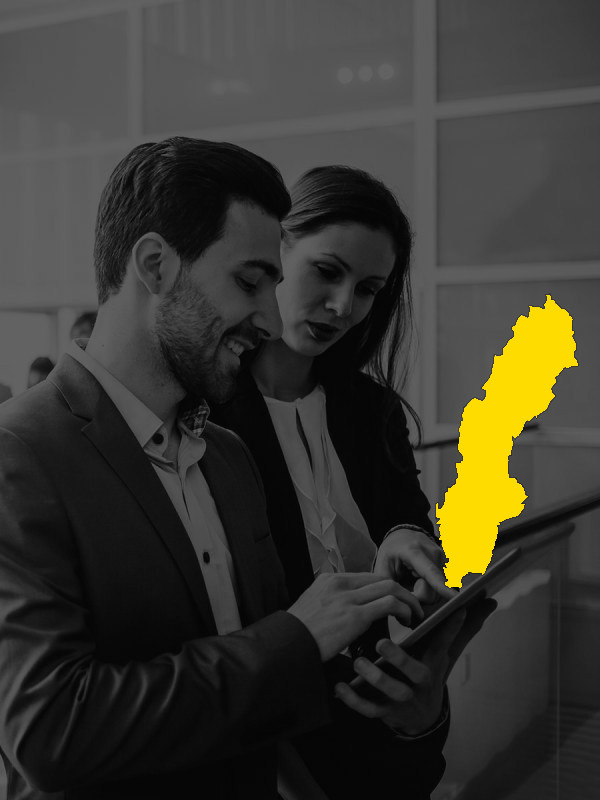
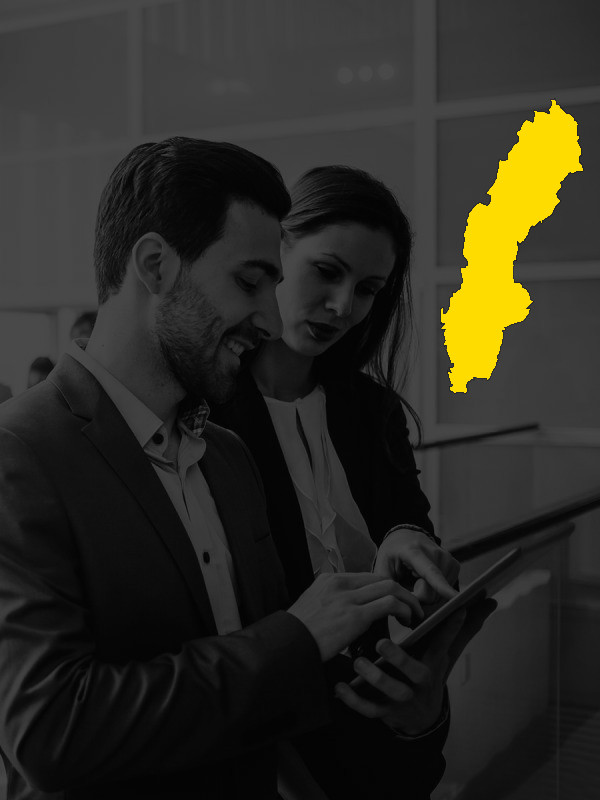
p1

diff --git a/index.html b/index.html
@@ -5,24 +5,14 @@
     <link rel="shortcut icon" href="img/logo.png" />
     <meta charset="utf8">
     <meta name="viewport" content="width=device-width, initial-scale=1">
-
-
-    <!-- Presently we use W3C.CSS is an alternative to Bootstrap. It is smaller,
-            faster and easier to use. We not use official Bootstrap, to use official uncomment
-    -->
-    <!-- <link rel="stylesheet" href="https://maxcdn.bootstrapcdn.com/bootstrap/4.0.0/css/bootstrap.min.css" integrity="sha384-Gn5384xqQ1aoWXA+058RXPxPg6fy4IWvTNh0E263XmFcJlSAwiGgFAW/dAiS6JXm" crossorigin="anonymous"> -->
     
     <link rel="stylesheet" href="css/index.css">
-    <!-- <link rel="stylesheet" href="https://www.w3schools.com/w3css/4/w3.css"> -->
     <link rel="stylesheet" href="https://maxcdn.bootstrapcdn.com/bootstrap/4.0.0/css/bootstrap.min.css">
     <link rel="stylesheet" href="https://cdnjs.cloudflare.com/ajax/libs/font-awesome/4.7.0/css/font-awesome.min.css">
     
     <script src="https://code.jquery.com/jquery-3.2.1.slim.min.js"></script>
     <script src="https://cdnjs.cloudflare.com/ajax/libs/popper.js/1.12.9/umd/popper.min.js"></script>
     <script src="https://maxcdn.bootstrapcdn.com/bootstrap/4.0.0/js/bootstrap.min.js"></script>
-    <!-- <script src="https://ajax.googleapis.com/ajax/libs/jquery/3.3.1/jquery.min.js"></script>
-    <script src="https://cdnjs.cloudflare.com/ajax/libs/popper.js/1.12.9/umd/popper.min.js"></script>
-    <script src="https://maxcdn.bootstrapcdn.com/bootstrap/4.0.0/js/bootstrap.min.js"></script> -->
 
     <script type="text/javascript" src="js/loadgo-master/loadgo-nojquery.min.js"></script>
     <script type="text/javascript" src="js/index.js"></script>
@@ -30,164 +20,26 @@
 
 </head>
 <body>
-    <script>
-    window.fbAsyncInit = function() {
-        FB.init({
-        appId            : 921478031347053,
-        status           : true,
-        autoLogAppEvents : true,
-        xfbml            : true,
-        version          : 'v2.12'
-        });
-    };
-    
-    (function(d, s, id){
-        var js, fjs = d.getElementsByTagName(s)[0];
-        if (d.getElementById(id)) {return;}
-        js = d.createElement(s); js.id = id;
-        js.src = "https://connect.facebook.net/en_US/sdk.js";
-        fjs.parentNode.insertBefore(js, fjs);
-        }(document, 'script', 'facebook-jssdk'));
-    </script>
-
-
-
-
-<p><a href="#" onClick="logInWithFacebook()">Log In with the JavaScript SDK</a></p>
-
-<script>
-    var FB;
-  logInWithFacebook = function() {
-    FB.login(function(response) {
-      if (response.authResponse) {
-        alert('You are logged in &amp; cookie set!');
-        // Now you can redirect the user or do an AJAX request to
-        // a PHP script that grabs the signed request from the cookie.
-      } else {
-        alert('User cancelled login or did not fully authorize.');
-      }
-    });
-    return false;
-  };
-  window.fbAsyncInit = function() {
-    FB.init({
-      appId: 2080610162185438,
-      cookie: true, // This is important, it's not enabled by default
-      version: 'v2.2'
-    });
-  };
-
-  (function(d, s, id){
-    var js, fjs = d.getElementsByTagName(s)[0];
-    if (d.getElementById(id)) {return;}
-    js = d.createElement(s); js.id = id;
-    js.src = "https://connect.facebook.net/en_Fr/sdk.js";
-    fjs.parentNode.insertBefore(js, fjs);
-  }(document, 'script', 'facebook-jssdk'));
-</script>
-
-<div class="fb-post" data-href="https://www.facebook.com/20531316728/posts/10154009990506729/" data-width="500"></div>
-
-
-
-
-
-
-
-
-
-
-
-
-
-
-
-
-
-
-
-
-
-
-
-
-
-
-
-
-
-
-
-
-
-
-
-
-
-
-
     <script>windowResizing</script>
 
-
-
-
-
-    <!-- <div class="firstPage">
-    <img class="workers" src="img/workers.jpg" alt="workers" style="width:100%">
-    <div class="text-block">
-        <h2 id="10000luncher" style="color:#ffdc00; font-weight:bolder">#10000luncher</h2>
-        <p id="sub-10000luncher" style="color:white">-När folket visade vägen, innan valet</p>
-        <div class="h4b" onclick="scrollingText(this, 'text1')">Vad menar ni ?<i class="fa fa-angle-down"></i></div>
-        <p id="text1" style="display:none">More about vad menar ni ....</p>
-        <div class="h4b" onclick="scrollingText(this, 'text2')">Gör en lunch verkligen nagon skillnad ?<i class="fa fa-angle-down"></i></div>
-        <p id="text2" style="display:none">More about Gör en lunch verkligen nagon skillnad....</p>
-        <div class="h4b" onclick="scrollingText(this, 'text3')">Gör en lunch verkligen nagon skillnad ?<i class="fa fa-angle-down"></i></div>
-        <p id="text3" style="display:none">These excellant intentions were strengthed when he enterd the Father Superior's diniing-room, though, stricttly speakin, it was not a dining-room, for the Father Superior had only two rooms alltogether; they were, however, much larger and more comfortable than Father Zossima's. But tehre was was no great luxury about the furnishng of these rooms eithar. The furniture was of mohogany, covered with leather, in the old-fashionned style of 1820 the floor was not even stained, but evreything was shining with cleanlyness, and there were many chioce flowers in the windows; the most sumptuous thing in the room at the moment was, of course, the beatifuly decorated table. The cloth was clean, the service shone; there were three kinds of well-baked bread, two bottles of wine, two of excellent mead, and a large glass jug of kvas -- both the latter made in the monastery, and famous in the neigborhood. There was no vodka. Rakitin related afterwards that there were five dishes: fish-suop made of sterlets, served with little fish paties; then boiled fish served in a spesial way; then salmon cutlets, ice pudding and compote, and finally, blanc-mange. Rakitin found out about all these good things, for he could not resist peeping into the kitchen, where he already had a footing. He had a footting everywhere, and got informaiton about everything. He was of an uneasy and envious temper. He was well aware of his own considerable abilities, and nervously exaggerated them in his self-conceit. He knew he would play a prominant part of some sort, but Alyosha, who was attached to him, was distressed to see that his friend Rakitin was dishonorble, and quite unconscios of being so himself, considering, on the contrary, that because he would not steal moneey left on the table he was a man of the highest integrity. Neither Alyosha nor anyone else could have infleunced him in that.</p>
-        <h3 id="faqLink" style="text-decoration: underline"><a href="#faq">Se fler frågor och svar</a></h3>
-    </div> -->
-    <!-- <div class="image-blockFirst">
-        <img src="img/sweden.png">
-    </div> -->
-    </div>
-
-
     <div class="p1">
-    <div class="p1-content">
-        <p id="10000luncher" style="color:#ffdc00; font-weight:bolder">#10000luncher</p>
+    <div class="p1-content" style="margin-bottom:30px">
+        <p id="tenThLuncher" style="color:#ffdc00; font-weight:bolder">#10000luncher</p>
         <p id="sub-10000luncher" style="color:white">-När folket visade vägen, innan valet</p>
     </div>
     <div class="p1-content">
         <div class="h4b" onclick="scrollingText(this, 'text1')">Vad menar ni ?<i class="fa fa-angle-down"></i></div>
         <p id="text1" style="display:none">More about vad menar ni ....</p>
+        <br>
         <div class="h4b" onclick="scrollingText(this, 'text2')">Gör en lunch verkligen nagon skillnad ?<i class="fa fa-angle-down"></i></div>
         <p id="text2" style="display:none">More about Gör en lunch verkligen nagon skillnad....</p>
+        <br>
         <div class="h4b" onclick="scrollingText(this, 'text3')">Gör en lunch verkligen nagon skillnad ?<i class="fa fa-angle-down"></i></div>
         <p id="text3" style="display:none">These excellant intentions were strengthed when he enterd the Father Superior's diniing-room, though, stricttly speakin, it was not a dining-room, for the Father Superior had only two rooms alltogether; they were, however, much larger and more comfortable than Father Zossima's. But tehre was was no great luxury about the furnishng of these rooms eithar. The furniture was of mohogany, covered with leather, in the old-fashionned style of 1820 the floor was not even stained, but evreything was shining with cleanlyness, and there were many chioce flowers in the windows; the most sumptuous thing in the room at the moment was, of course, the beatifuly decorated table. The cloth was clean, the service shone; there were three kinds of well-baked bread, two bottles of wine, two of excellent mead, and a large glass jug of kvas -- both the latter made in the monastery, and famous in the neigborhood. There was no vodka. Rakitin related afterwards that there were five dishes: fish-suop made of sterlets, served with little fish paties; then boiled fish served in a spesial way; then salmon cutlets, ice pudding and compote, and finally, blanc-mange. Rakitin found out about all these good things, for he could not resist peeping into the kitchen, where he already had a footing. He had a footting everywhere, and got informaiton about everything. He was of an uneasy and envious temper. He was well aware of his own considerable abilities, and nervously exaggerated them in his self-conceit. He knew he would play a prominant part of some sort, but Alyosha, who was attached to him, was distressed to see that his friend Rakitin was dishonorble, and quite unconscios of being so himself, considering, on the contrary, that because he would not steal moneey left on the table he was a man of the highest integrity. Neither Alyosha nor anyone else could have infleunced him in that.</p>
+        <br>
         <div class="h4b"><a href="#faq">Se fler frågor och svar</a></div>
     </div>        
     </div>
-
-    <h2>Example</h2>
-    <p>Resize this page to see how the text below changes:</p>
-    <div class="d-sm-none"> eXtra Small lower than 576px> </div>
-    <div class="d-none d-sm-block d-md-none d-lg-none d-xl-none"> SMall ≥576px </div>
-    <div class="d-none d-md-block d-lg-none d-xl-none"> MeDium ≥768px </div>
-    <div class="d-none d-lg-block d-xl-none"> LarGe ≥992px </div>
-    <div class="d-none d-xl-block"> eXtra Large ≥1200px </div>       
-
-
-    <!-- <div class="w3-row" style="margin-bottom:128px">
-        <div class="w3-half">
-          <img src="img/eiffel.jpg" style="width:100%">
-          <img src="img/hibou.jpg" style="width:100%">
-        </div>
-      
-        <div class="w3-half">
-          <img src="img/mario.jpg" style="width:100%">
-          <img src="img/ours.jpg" style="width:100%">
-        </div>
-      </div> -->
-
 
     <div class="numbersPage">
         <button type="button" onclick="init()">init</button>
@@ -196,19 +48,14 @@
         <button type="button" onclick="start()">Start</button>
         <p id="textHere">Text to be change</p>
         <p class="text-numbers">Mål 10000 luncher</p>
-        <br>
-        <p id="text-numbers">t</p>
-        <p id="text-numbers">hittills</p>
-    </div>
-    <div id="pngContainer">
-        <img id="pngFilling" src="img/welcome2.png" alt="Disney" style="margin: 0">
-        <div class="current-number">YESSSS</div>
-    </div>
-    <div class="numbersPage">
+        <div id="pngContainer">
+            <img id="pngFilling" src="img/rondNoir2.png" alt="Disney" style="margin: 0">
+            <div id="current-number">YESSSS hittills</div>
+        </div>
         <p class="text-numbers">dagar kvar till valet</p>             
-        <img class="icon" src="img/calendar.png"></img>
+        <img class="icon" src="img/calendar.png">
         <p class="text-numbers">luncher / dag behövs</p>
-        <img class="icon" src="img/cultery.png"></img>
+        <img class="icon" src="img/cultery.png">
     </div>
 
     <div class="steps">

diff --git a/css/index.css b/css/index.css
@@ -10,7 +10,6 @@ h3 {font-family: SofiaBold};
 h4 {font-family: SofiaBold};
 
 
-/* +++++First part+++++ */
 
 @media only screen and (max-width: 575px) {
     div.h4b {
@@ -58,28 +57,26 @@ h4 {font-family: SofiaBold};
     }
 }
 
-
-.image-blockFirst {
-    position: absolute;
-    top: 15%;
-    right: 10%;
-    background-color: #ffdc00;
-}
-
+/* +++++First part+++++ */
 .fa-angle-down {
     position: absolute;
     right: 2.5%;
 }
+
+.p1 {
+    width: 100%;
+    background-image: url("../img/workers_sweden.jpg");
+    background-size: 100% auto;
+    background-repeat: no-repeat;
+}
+
+.p1-content {
+    color: white;    
+}
 /* -----End first part----- */
 
 
-
-
-
-
-
 /* +++++Footer+++++ */
-
 #footer-content {
     position: fixed;
     bottom: 0;
@@ -106,26 +103,31 @@ h4 {font-family: SofiaBold};
     font-size: larger;
     font-weight: bolder;
 }
+/* -----End footer----- */
 
+
+/* -----END numbers part----- */
 .numbersPage {
     background: #ffdc00;
 }
 
 #pngContainer {
-    margin-left: 35%;
+    width: auto;
+    padding-left: 40%;
     position: relative;
-    text-align: left;
+    /* text-align: left; */
+    background-color: #ffdc00;
 }
 
-.current-number {
+#current-number {
     position: absolute;
-    top: 70%;
-    left: 25%;
+    top: 50%;
+    left: 50%;
     transform: translate(-50%, -50%);
-}
-
-#pngFilling {
-    width: 50%;
+    color: white;
+    font-weight: bolder;
+    width: 50px;
+    text-align: center;
 }
 
 .icon {
@@ -136,9 +138,10 @@ h4 {font-family: SofiaBold};
     margin-right: 40%;
 }
 
-#text-numbers {
-    margin-top: 10px;
-    margin-left: 45%;
+.text-numbers {
+    margin-top: 15px;
+    margin-bottom: 0;
+    text-align: center;
     font-weight: bolder;
     font-size: larger;
 }
@@ -170,26 +173,3 @@ h4 {font-family: SofiaBold};
     color: white;
 }
 
-.p1 {
-    width: 100%;
-    background-image: url("../img/workers_sweden.jpg");
-    background-clip: content-box;
-    background-size: 100% auto;
-    background-repeat: no-repeat;
-}
-
-.p1-content {
-    filter: grayscale(0%);
-    color: white;
-    
-}
-
-.p1-img-content {
-    float: right;
-    
-}
-
-.p1-img {
-    height: 150px;
-    color: purple;
-}

diff --git a/js/index.js b/js/index.js
@@ -34,7 +34,9 @@ function init() {
     var elementTextHere = document.getElementById("textHere");
     elementTextHere.innerHTML = "Salut";
     Loadgo.init(image, {
-        'direction': 'bt'
+        'direction': 'bt',
+        'bgcolor': '#ffdc00',
+        'opacity': 1
       });
      var ok = Loadgo.options(image);
     console.log(ok);
@@ -64,17 +66,11 @@ function windowResizing() {
     width = window.innerWidth;
     height = window.innerHeight;
 
-    var tenThLuncher = document.getElementById("10000luncher");
+    var tenThLuncher = document.getElementById("tenThLuncher");
     var subTenThL = document.getElementById("sub-10000luncher");
-    var btnFooter = document.getElementById("btn-footer");
-    var footer = document.getElementById("footer-content");
-
-
-    footer.style.height = btnFooter.style.height;
-    console.log(btnFooter);
 
     if(width < 576) {
-        // tenThLuncher.style.fontSize = "30px";
+        tenThLuncher.style.fontSize = "30px";
         subTenThL.style.fontSize = "20px";
     }
     else {
